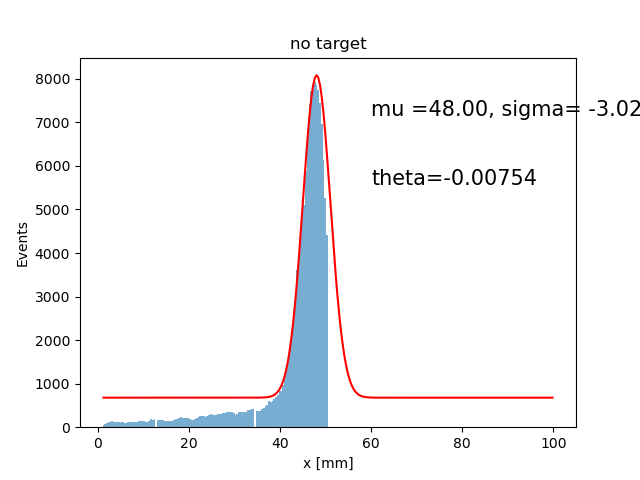
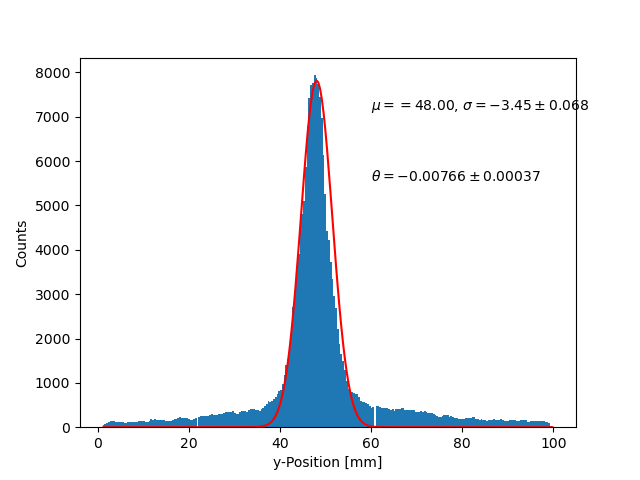
y

diff --git a/src/elsa/dataReader.py b/src/elsa/dataReader.py
@@ -10,7 +10,7 @@ def drawHistograms(file, histogramArray, indexTranslation):
     
     #To later calculate the standard deviation from the difference of the no data run and the other runs.
     standardDevNoData = 0
-
+    standardDevNoDataErr = 0
     for i in histogramArray:
 
         mm_strip = file[i]["raw"]["mm_strip"].array(library="np")
@@ -32,7 +32,7 @@ def drawHistograms(file, histogramArray, indexTranslation):
 
 
         #filter out unprecise data to eliminate local jitters
-        valid_events = {eid for eid, count in event_counts.items() if count <700}
+        valid_events = {eid for eid, count in event_counts.items() if count < 700}
         mask = np.isin(event_id, list(valid_events))
 
         mm_strip = mm_strip[mask]
@@ -57,11 +57,11 @@ def drawHistograms(file, histogramArray, indexTranslation):
 
 
         #swap out the left and right side to account for weird apv placement
-        x_strip[x_strip >= 128] -= 256
-        x_strip[x_strip >= 1] += 127
-        y_strip[y_strip <=0] += 127
+        #x_strip[x_strip >= 128] -= 256
+        #x_strip[x_strip >= 1] += 127
+        #y_strip[y_strip <=0] += 127
 
-        y_strip[y_strip >= 128] -= 256
+        y_strip[y_strip > 128] -= 256
         y_strip[y_strip >= 1] += 128
         y_strip[y_strip<=0] += 128
 
@@ -76,20 +76,26 @@ def drawHistograms(file, histogramArray, indexTranslation):
         y_strip = y_strip / 2.54
         x_strip = x_strip / 2.54
         
+        #plt.hist(x_strip, bins = 250, range=(1,100))
+        #plt.xlabel("x-Position")
+        #plt.ylabel("Counts")
+
+        #plt.show()
+
         #if i == 0:
         #    twodHist(x_strip, y_strip)
 
         #these are now arrays that list the individual counts, such that the size of this array is the amount of data collected.
         #I will transform this into two arrays, both 250 long (the amount of buckets)
         #such that one records the size of the bucket, and the other the bucket number.
-        ycounts, yedges = np.histogram(y_strip, bins=256, range=(1,100))
+        ycounts, yedges = np.histogram(y_strip, bins=254, range=(1,100))
         ycenters = 0.5 * (yedges[:-1] + yedges[1:])
         
         #mirroring the Array so that the data becomes easier to analyze and the sensitivity difference between apvs is ignored.
-        yMirrorcounts = mirrorArrayLeft(ycounts)
-        for k in range(round(len(yMirrorcounts)/2), len(yMirrorcounts)):
-            yMirrorcounts[k]=0
-        #yMirrorcounts = ycounts
+        #yMirrorcounts = mirrorArrayLeft(ycounts)
+        #for k in range(round(len(yMirrorcounts)/2), len(yMirrorcounts)):
+        #    yMirrorcounts[k]=0
+        yMirrorcounts = ycounts
         #yMirrorcounts = mirrorArrayRight(ycounts)
 
         #Now start a gauss fit by doing an initial guess
@@ -119,33 +125,64 @@ def drawHistograms(file, histogramArray, indexTranslation):
         else:
             if i == 0:
                 standardDevNoData = popt[1]
+                standardDevNoDataErr = perr[1]
 
 
-        plt.bar(ycenters, yMirrorcounts, width=yedges[1] - yedges[0], alpha=0.6, label="Data")
+        plt.bar(ycenters, yMirrorcounts, width=yedges[1] - yedges[0], alpha=1, label="Data")
         plt.plot(ycenters, gaussMu(ycenters, *popt), color='red', label="Gaussian Fit")
         
-        plt.xlabel("x [mm]")
-        plt.ylabel("Events")
-        
+        plt.xlabel("y-Position [mm]")
+        plt.ylabel("Counts")
+       
         if False:
             if i == 0:
-                plt.text(60,np.max(yMirrorcounts) - np.max(yMirrorcounts)/10, f"μ={popt[1]:.2f}, σ={popt[2]:.2f}", fontsize=15)
-                plt.text(60,np.max(yMirrorcounts) - 3*np.max(yMirrorcounts)/10, "θ=" + str(np.round(np.arctan(popt[2]/400), 5)), fontsize=15)
+                
+                plt.text(60,np.max(yMirrorcounts) - np.max(yMirrorcounts)/10, rf"$\mu={popt[1]:.2f} \pm {perr[1]:.3f}$, $\sigma={popt[2]:.2f} \pm {perr[2]:.3f}$", fontsize=15)
+                p = np.round(np.arctan(popt[2]/450), 5)
+                thetaErr = np.sqrt(
+                        (1/(1-(popt[1]/450)**2))**2 * perr[1]**2 +
+                        (1/(1-(popt[1]/450)**2)) * 20**2
+                        )
+                plt.text(60,np.max(yMirrorcounts) - 3*np.max(yMirrorcounts)/10, rf"$\theta= {p:.5f}$", fontsize=15)
             else:
                 popt[2] = np.sqrt( popt[2]**2 - standardDevNoData**2 )
-                plt.text(60,np.max(yMirrorcounts) - np.max(yMirrorcounts)/10, f"μ={popt[1]:.2f}, σ={popt[2]:.2f}", fontsize=15)
-                plt.text(60, np.max(yMirrorcounts) - 3*np.max(yMirrorcounts)/10, "θ=" + str(np.round(np.arctan(popt[2]/400), 5)), fontsize=15)
+                plt.text(60,np.max(yMirrorcounts) - np.max(yMirrorcounts)/10, rf"$\mu={popt[1]:.2f}$, $\sigma={popt[2]:.2f}$", fontsize=15)
+                p = np.round(np.arctan(popt[2]/450),5)
+                thetaErr = np.sqrt(
+                        (1/(1-(popt[1]/450)**2))**2 * perr[1]**2 +
+                        (1/(1-(popt[1]/450)**2)) * 20**2
+                        )
+                plt.text(60, np.max(yMirrorcounts) - 3*np.max(yMirrorcounts)/10, rf"$\theta= {p:.5f}$", fontsize=15)
         else:
             if i == 0:
-                plt.text(60, np.max(yMirrorcounts) - np.max(yMirrorcounts)/10, f"mu ={fixmu:.2f}, sigma= {popt[1]:.2f}", fontsize=15)
-                plt.text(60, np.max(yMirrorcounts) -3*np.max(yMirrorcounts)/10, "theta=" + str(np.round(np.arctan(popt[1]/400), 5)), fontsize=15)
+                plt.text(60, np.max(yMirrorcounts) - np.max(yMirrorcounts)/10, rf"$\mu= ={fixmu:.2f}$, $\sigma= {popt[1]:.2f}\pm {perr[1]:.3f}$", fontsize=10)
+                p = np.round(np.arctan(popt[1]/450), 5)
+                thetaErr = np.sqrt(
+                        ((1/450)*(1/(1-(popt[1]/450)**2)))**2 * perr[1]**2 +
+                        ((popt[1]/(450**2))*(1/(1-(popt[1]/450)**2)))**2 * 20**2
+                        )
+                plt.text(60, np.max(yMirrorcounts) -3*np.max(yMirrorcounts)/10, rf"$\theta = {p:.5f} \pm {thetaErr:.5f} $" , fontsize=10)
             else:
                 popt[1] = np.sqrt( popt[1]**2 - standardDevNoData**2 )
-                plt.text(60, np.max(yMirrorcounts) - np.max(yMirrorcounts)/10, f"mu = {fixmu:.2f}, sigma={popt[1]:.2f}", fontsize=15)
-                plt.text(60, np.max(yMirrorcounts) -3*np.max(yMirrorcounts)/10, "theta=" + str(np.round(np.arctan(popt[1]/400), 5)), fontsize=15)
+                perr[1] = np.sqrt(
+                            ((2*popt[1])/(np.sqrt(
+                                    popt[1]**2 - standardDevNoData**2
+                                )))**2 * perr[1]**2 +
+                            ((2*standardDevNoData**2)/(np.sqrt(
+                                    popt[1]**2 - standardDevNoData**2
+                                )))**2 * standardDevNoDataErr**2
+                        )
+                thetaErr = np.sqrt(
+                        ((1/450)*(1/(1-(popt[1]/450)**2)))**2 * perr[1]**2 +
+                        ((popt[1]/(450**2))*(1/(1-(popt[1]/450)**2)))**2 * 20**2
+                        )
+                p = np.round(np.arctan(popt[1]/450), 5)
+                plt.text(60, np.max(yMirrorcounts) - np.max(yMirrorcounts)/10, rf"$\mu = {fixmu:.2f}$, $\sigma={popt[1]:.2f} + {perr[1]:.2f}$", fontsize=10)
+                np.round(np.arctan(popt[1]/450), 5)                                 
+                plt.text(60, np.max(yMirrorcounts) -3*np.max(yMirrorcounts)/10, rf"$\theta={p:.5f} \pm {thetaErr:.5f}$", fontsize=10)
 
 
-        plt.title(indexTranslation[i])
+        #plt.title(indexTranslation[i])
         plt.savefig("finished_plots/" + indexTranslation[i] + ".png")
 
 
@@ -199,28 +236,47 @@ def mirrorArrayRight(Array):
 def gauss(x, A, mu, sigma):
     return A * np.exp(-(x - mu)**2 / (2 * sigma**2))
 
-def gaussMu(x,A,sigma,b):
+def gaussMu(x,A,sigma):
     return A * np.exp(-(x - fixmu)**2 / (2*sigma**2))
 
 def fit():
-    yA = [0.00904, 0.1419, 0.02185, 0.02594]
-    xA = [0.0034, 0.00497, 0.00744, 0.00857]
+    yA = np.array([0.00904, 0.01419, 0.02185, 0.02594])
+    xA = np.array([0.0034, 0.00497, 0.00744, 0.00857])
 
-    yC = [0.00866, 0.001322, 0.02223, 0.02371]
-    xC = [0.0031, 0.0047, 0.0069, 0.0085]
+    yC = np.array([0.00866, 0.001322, 0.02223, 0.02371])
+    xC = np.array([0.0031, 0.0047, 0.0069, 0.0085])
     
     p0 = [3,0]
 
     popt, pcov = curve_fit(linear, xA, yA, p0 = p0)
+    perr = np.sqrt(np.diag(pcov))
+
     
     plt.plot(xA,linear(xA, *popt))
-    plt.title(popt[0] + "+" + popt[1])
+    #plt.title("Aluminium")
+    plt.xlabel("theoretical value")
+    plt.ylabel("experimental value")
+
+    plt.text(xA[1], np.max(yA) - np.max(yA)/10, rf"$m={popt[0]:.2f} + {perr[0]:.2f}$", fontsize=10)
+    plt.savefig("finished_plots/Aluminium.png")
+    plt.show()
+
+    popt, pcov = curve_fit(linear, xC, yC, p0=p0)
+    perr = np.sqrt(np.diag(pcov))
+
+    plt.plot(xC, linear(xC, *popt))
+    #plt.title("Copper")
+    plt.xlabel("theoretical value")
+    plt.ylabel("experimental value")
+    plt.text(xC[1], np.max(yC) - np.max(yC)/10, rf"$m={popt[0]:.2f} + {perr[0]:.2f}$", fontsize=10)
+    plt.savefig("finished_plots/Copper.png")
+
     plt.show()
 
 
 
 def linear(x, m, b):
-    return m*x, b
+    return m*x + b
 
 
 
@@ -240,12 +296,12 @@ indexTranslation = [
     "Copper, Two Radiation Lengths, 40cm Distance",
     "Copper, Three Radiation Lengths, 40cm Distance"
         ]
-#files = openfile()
+files = openfile()
 
 #Use this array to show which histograms you want to analyze and plot
 histogramArray = [0,1,2,3,4,5,6,7,8]
-#drawHistograms(files, histogramArray, indexTranslation)
-fit()
+drawHistograms(files, histogramArray, indexTranslation)
+#fit()
 
 
 
